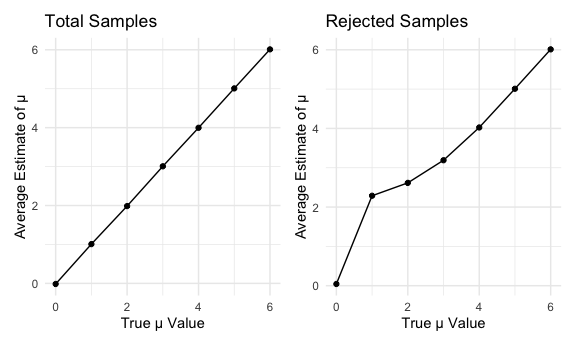
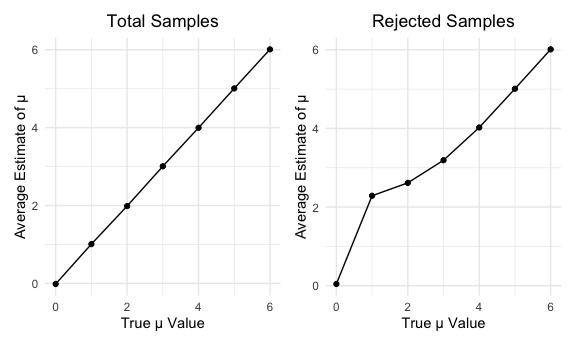
fixed title centering and explanation

Changed region(s): [[0.5625, 0.029, 0.9062, 0.087], [0.0625, 0.029, 0.375, 0.087]]

diff --git a/p8105_hw5_hlz2108.md b/p8105_hw5_hlz2108.md
@@ -493,8 +493,23 @@ sim_results_2 =
   select(-output_lists) %>% 
   unnest(estimate_df)
 
-sim_results_2 %>% view
+sim_results_2
 ```
+
+    ## # A tibble: 35,000 x 3
+    ##       mu estimate p.value
+    ##    <dbl>    <dbl>   <dbl>
+    ##  1     0   -0.746   0.452
+    ##  2     0   -1.38    0.171
+    ##  3     0   -0.866   0.394
+    ##  4     0    1.12    0.123
+    ##  5     0   -0.517   0.516
+    ##  6     0    0.651   0.497
+    ##  7     0   -0.361   0.695
+    ##  8     0   -0.697   0.514
+    ##  9     0   -0.471   0.602
+    ## 10     0    0.913   0.313
+    ## # … with 34,990 more rows
 
 Let’s make a plot.
 
@@ -550,7 +565,8 @@ total_p =
     title = "Total Samples",
     x = "True μ Value",
     y = "Average Estimate of μ"
-  )
+  ) + 
+  theme(plot.title = element_text(hjust = 0.5))
 ```
 
     ## `summarise()` ungrouping output (override with `.groups` argument)
@@ -576,7 +592,9 @@ rejects_p =
     title = "Rejected Samples",
     x = "True μ Value",
     y = "Average Estimate of μ"
-  )
+  ) + 
+  theme(
+    plot.title = element_text(hjust = 0.5))
 ```
 
     ## `summarise()` ungrouping output (override with `.groups` argument)
@@ -598,7 +616,7 @@ the average estimate. However, in the plot with only samples for which
 the null was rejected, the average estimate only approximates the true
 mean when the effect size is between 4 and 6. This indicates that when
 effect size is large, the average estimate is a good approximation of
-the true value. When effect size is small, between 0-2, we can see that
+the true value. When effect size is small, between 0-3, we can see that
 the average estimate is not a good approximate for the true value. The
 plot suggests that when the effect size is small, it is possible that
 the average estimate would overestimate the true mean.
